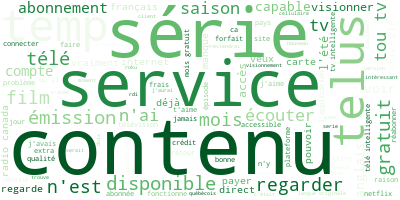
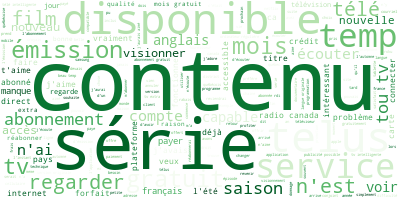
changes13

diff --git a/streamlit_app.py b/streamlit_app.py
@@ -31,7 +31,6 @@ from textblob_fr import PatternTagger, PatternAnalyzer
 # Topic modeling - Thématiques
 from bertopic import BERTopic
 from sklearn.feature_extraction.text import CountVectorizer
-from spacy.lang.fr.stop_words import STOP_WORDS as fr_stop
 
 
 st.set_page_config(
@@ -110,11 +109,15 @@ st.markdown("")
 
 #### SENTIMENT ANALYSIS
 df_sentiment = df.copy()
-spacy_stopwords = fr_stop
+
+# STOPWORDS en francais
+STOPWORDS = pd.read_csv("stop_words_french.txt")
+stopwords = list(STOPWORDS.a)
+stopwords = stopwords
 
 # Spacy 
-spacy_stopwords = fr_stop
-df_sentiment['texte_sans_stopwords'] = df_sentiment['texte'].apply(lambda x: ' '.join([word for word in x.split() if word not in (spacy_stopwords)]))
+# spacy_stopwords = fr_stop
+df_sentiment['texte_sans_stopwords'] = df_sentiment['texte'].apply(lambda x: ' '.join([word for word in x.split() if word not in (stopwords)]))
 tb = Blobber(pos_tagger=PatternTagger(), analyzer=PatternAnalyzer())
 
 senti_list = []
@@ -183,13 +186,10 @@ st.markdown("-------------------------------------------------------------------
 col1, col2 = st.columns(2)
 
 with col1:
-    # STOPWORDS en francais
-    STOPWORDS = pd.read_csv("stop_words_french.txt")
-    stopwords = list(STOPWORDS.a)
+
     comment_words_all = ''
     comment_words_pos = ''
     comment_words_neg = ''
-    stopwords = stopwords
 
     new_words=("a","c'est", 'c’est', "j'ai", "voulais", "ai", "je", ":", ".", ",", "Non", "Non .", "7\n2", "7", "2.")
     for i in new_words:
